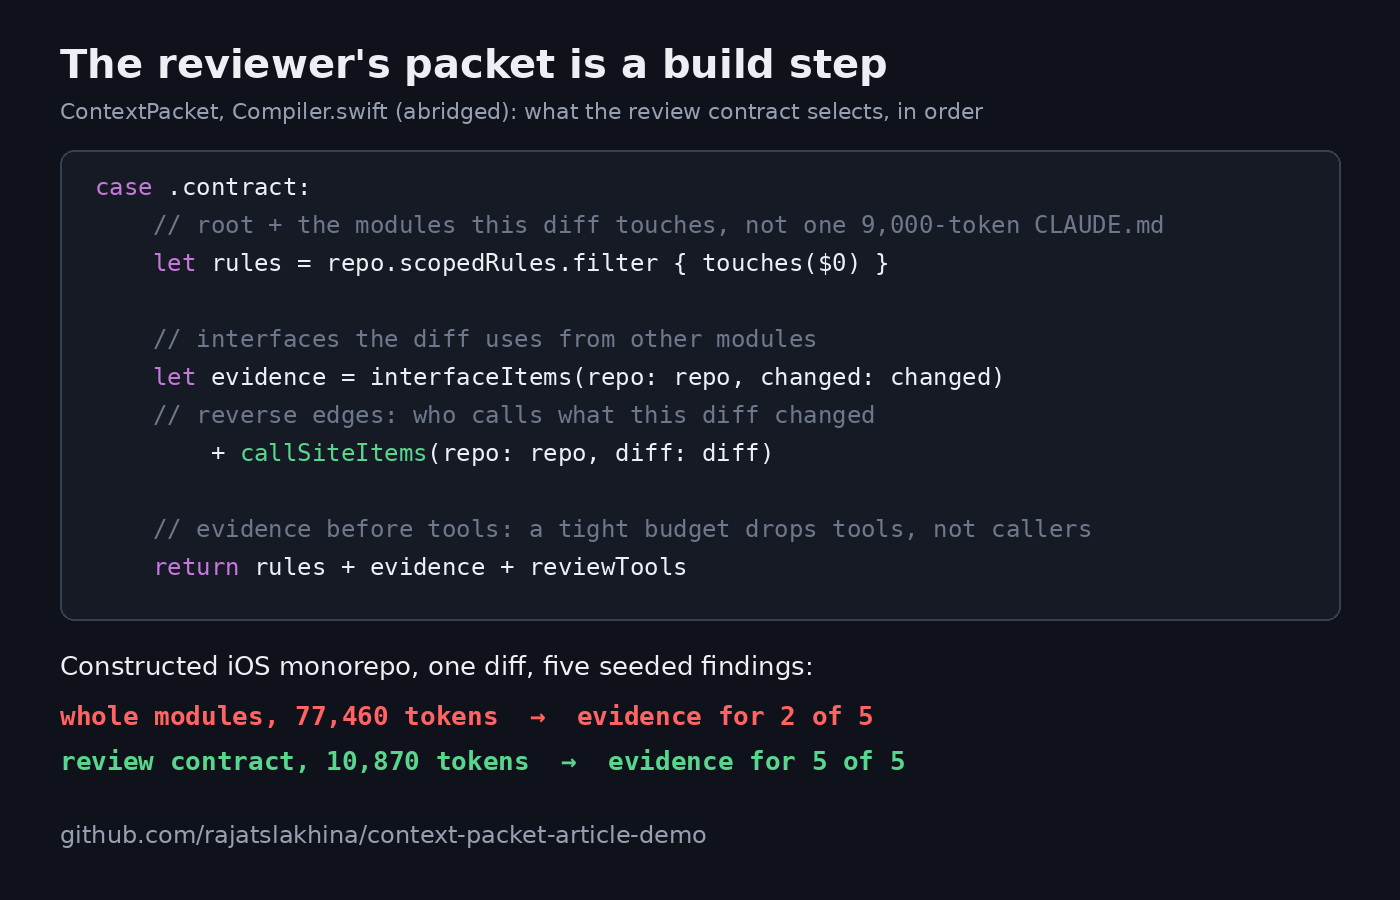
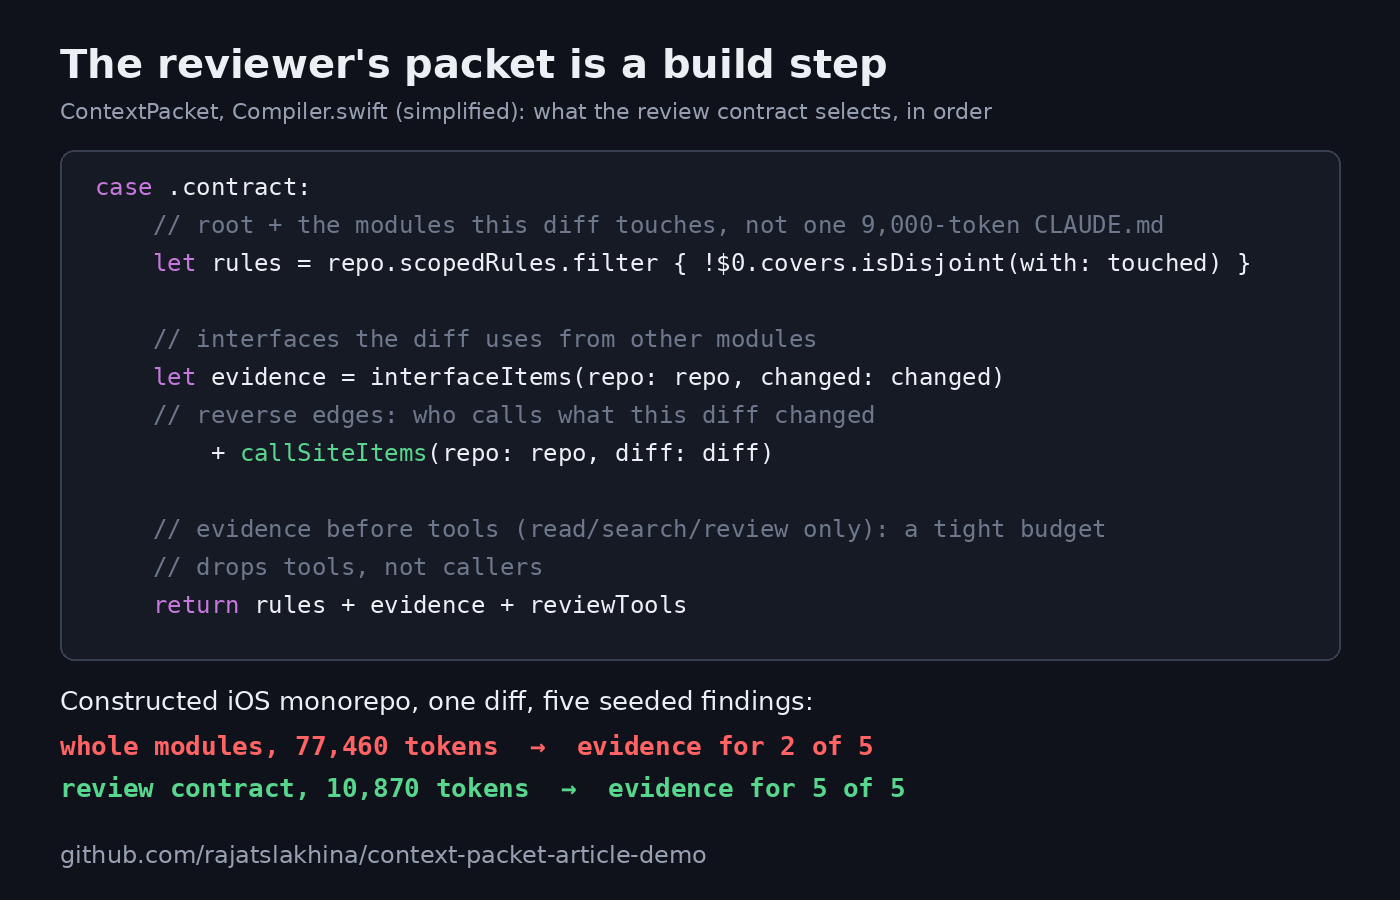
Docs: per-budget chart track

diff --git a/docs/make_images.py b/docs/make_images.py
@@ -32,7 +32,7 @@ im.save(P+"header.png")
 # ---------- diagram 1400x940: what fills the window
 im=Image.new("RGB",(1400,940),BG); d=ImageDraw.Draw(im)
 d.text((60,40),"What fills a reviewer agent's window",font=f("DejaVuSans-Bold.ttf",40),fill=FG)
-d.text((60,96),"Same diff, same repo, four packets. Right column: seeded findings whose evidence made it in.",font=f("DejaVuSans.ttf",22),fill=MUTED)
+d.text((60,96),"Same diff, same repo, four packets. Grey track = budget. Right: seeded findings whose evidence made it in.",font=f("DejaVuSans.ttf",22),fill=MUTED)
 rows=[
  ("Whole modules","32,000 budget",[("diff",2000),("rules",9000),("tool",20700)],31700,"1 / 5","0 tokens of source: tools and one big CLAUDE.md filled it"),
  ("Diff only","32,000 budget",[("diff",2000),("rules",9000),("tool",20700)],31700,"1 / 5","same picture without the ambition"),
@@ -47,11 +47,19 @@ for name,bud,parts,total,cov,note in rows:
     ok=cov.startswith("5")
     w=d.textlength(cov,font=f("DejaVuSans-Bold.ttf",34)); d.text((1310-w,y+14),cov,font=f("DejaVuSans-Bold.ttf",34),fill=GREEN if ok else RED)
     x=90; yy=y+66
-    rr(d,(90,yy,90+1000,yy+30),(33,39,54),None,6)
+    bnum=int(bud.split()[0].replace(",",""))
+    track=min(int(bnum*s),1000)
+    rr(d,(90,yy,90+track,yy+30),(33,39,54),None,6)
+    if bnum*s<=1000:
+        d.line((90+track,yy-8,90+track,yy+38),fill=FG,width=3)
+        d.text((90+track+8,yy-26),"budget",font=f("DejaVuSans.ttf",16),fill=MUTED)
+    else:
+        d.text((90+1000-150,yy-26),"budget 200,000 →",font=f("DejaVuSans.ttf",16),fill=MUTED)
     for k,v in parts:
         ww=int(v*s)
         if ww>0: d.rectangle((x,yy,x+ww,yy+30),fill=C[k]); x+=ww
-    d.text((x+12,yy+4),f"{total:,}",font=f("DejaVuSansMono-Bold.ttf",20),fill=FG)
+    lx=max(x,90+track)+16 if bnum*s<=1000 else x+12
+    d.text((lx,yy+4),f"{total:,}",font=f("DejaVuSansMono-Bold.ttf",20),fill=FG)
     d.text((90,y+108),note,font=f("DejaVuSans.ttf",20),fill=MUTED)
     y+=170
 # legend
@@ -84,29 +92,30 @@ im.save(P+"eviction.png")
 # ---------- code card 1400x900 (LinkedIn)
 im=Image.new("RGB",(1400,900),BG); d=ImageDraw.Draw(im)
 d.text((60,40),"The reviewer's packet is a build step",font=f("DejaVuSans-Bold.ttf",40),fill=FG)
-d.text((60,98),"ContextPacket, Compiler.swift (abridged): what the review contract selects, in order",font=f("DejaVuSans.ttf",22),fill=MUTED)
-rr(d,(60,150,1340,620),(22,26,36),LINE,14)
+d.text((60,98),"ContextPacket, Compiler.swift (simplified): what the review contract selects, in order",font=f("DejaVuSans.ttf",22),fill=MUTED)
+rr(d,(60,150,1340,660),(22,26,36),LINE,14)
 mono=f("DejaVuSansMono.ttf",24)
 KW=(198,120,221); TY=(97,175,239); CM=(110,120,140); ST=FG; GR=C["callSite"]
 lines=[
  [("case ",KW),(".contract",ST),(":",ST)],
  [("    // root + the modules this diff touches, not one 9,000-token CLAUDE.md",CM)],
- [("    let ",KW),("rules = repo.scopedRules.filter { touches($0) }",ST)],
+ [("    let ",KW),("rules = repo.scopedRules.filter { !$0.covers.isDisjoint(with: touched) }",ST)],
  [("",ST)],
  [("    // interfaces the diff uses from other modules",CM)],
  [("    let ",KW),("evidence = interfaceItems(repo: repo, changed: changed)",ST)],
  [("    // reverse edges: who calls what this diff changed",CM)],
  [("        + ",ST),("callSiteItems",GR),("(repo: repo, diff: diff)",ST)],
  [("",ST)],
- [("    // evidence before tools: a tight budget drops tools, not callers",CM)],
+ [("    // evidence before tools (read/search/review only): a tight budget",CM)],
+ [("    // drops tools, not callers",CM)],
  [("    return ",KW),("rules + evidence + reviewTools",ST)],
 ]
 for i,segs in enumerate(lines):
     x=95; y=172+i*38
     for t,c in segs: d.text((x,y),t,font=mono,fill=c); x+=d.textlength(t,font=mono)
-d.text((60,650),"Constructed iOS monorepo, one diff, five seeded findings:",font=f("DejaVuSans.ttf",26),fill=FG)
-d.text((60,700),"whole modules, 77,460 tokens  →  evidence for 2 of 5",font=f("DejaVuSansMono-Bold.ttf",26),fill=RED)
-d.text((60,745),"review contract, 10,870 tokens  →  evidence for 5 of 5",font=f("DejaVuSansMono-Bold.ttf",26),fill=GREEN)
-d.text((60,820),"github.com/rajatslakhina/context-packet-article-demo",font=f("DejaVuSans.ttf",24),fill=MUTED)
+d.text((60,685),"Constructed iOS monorepo, one diff, five seeded findings:",font=f("DejaVuSans.ttf",26),fill=FG)
+d.text((60,730),"whole modules, 77,460 tokens  →  evidence for 2 of 5",font=f("DejaVuSansMono-Bold.ttf",26),fill=RED)
+d.text((60,772),"review contract, 10,870 tokens  →  evidence for 5 of 5",font=f("DejaVuSansMono-Bold.ttf",26),fill=GREEN)
+d.text((60,840),"github.com/rajatslakhina/context-packet-article-demo",font=f("DejaVuSans.ttf",24),fill=MUTED)
 im.save(P+"code-card.png")
 print("ok")
